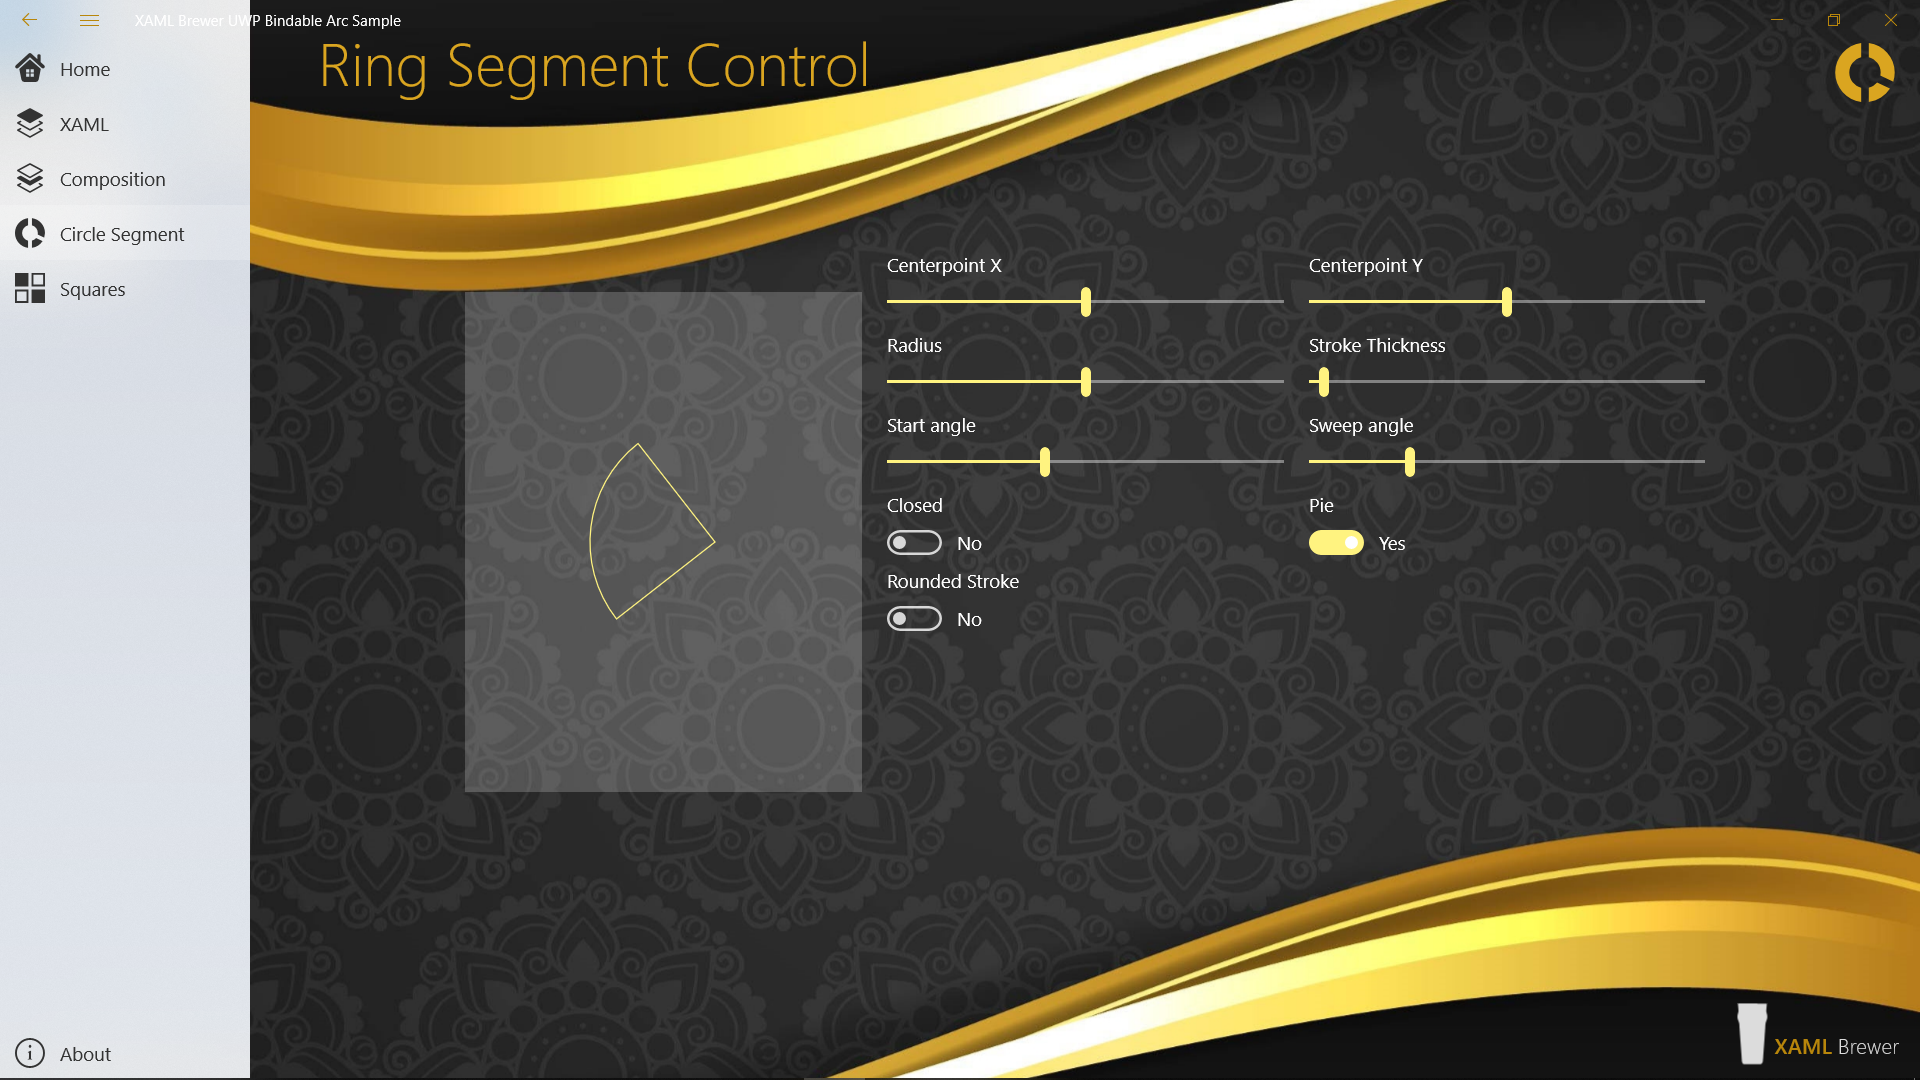
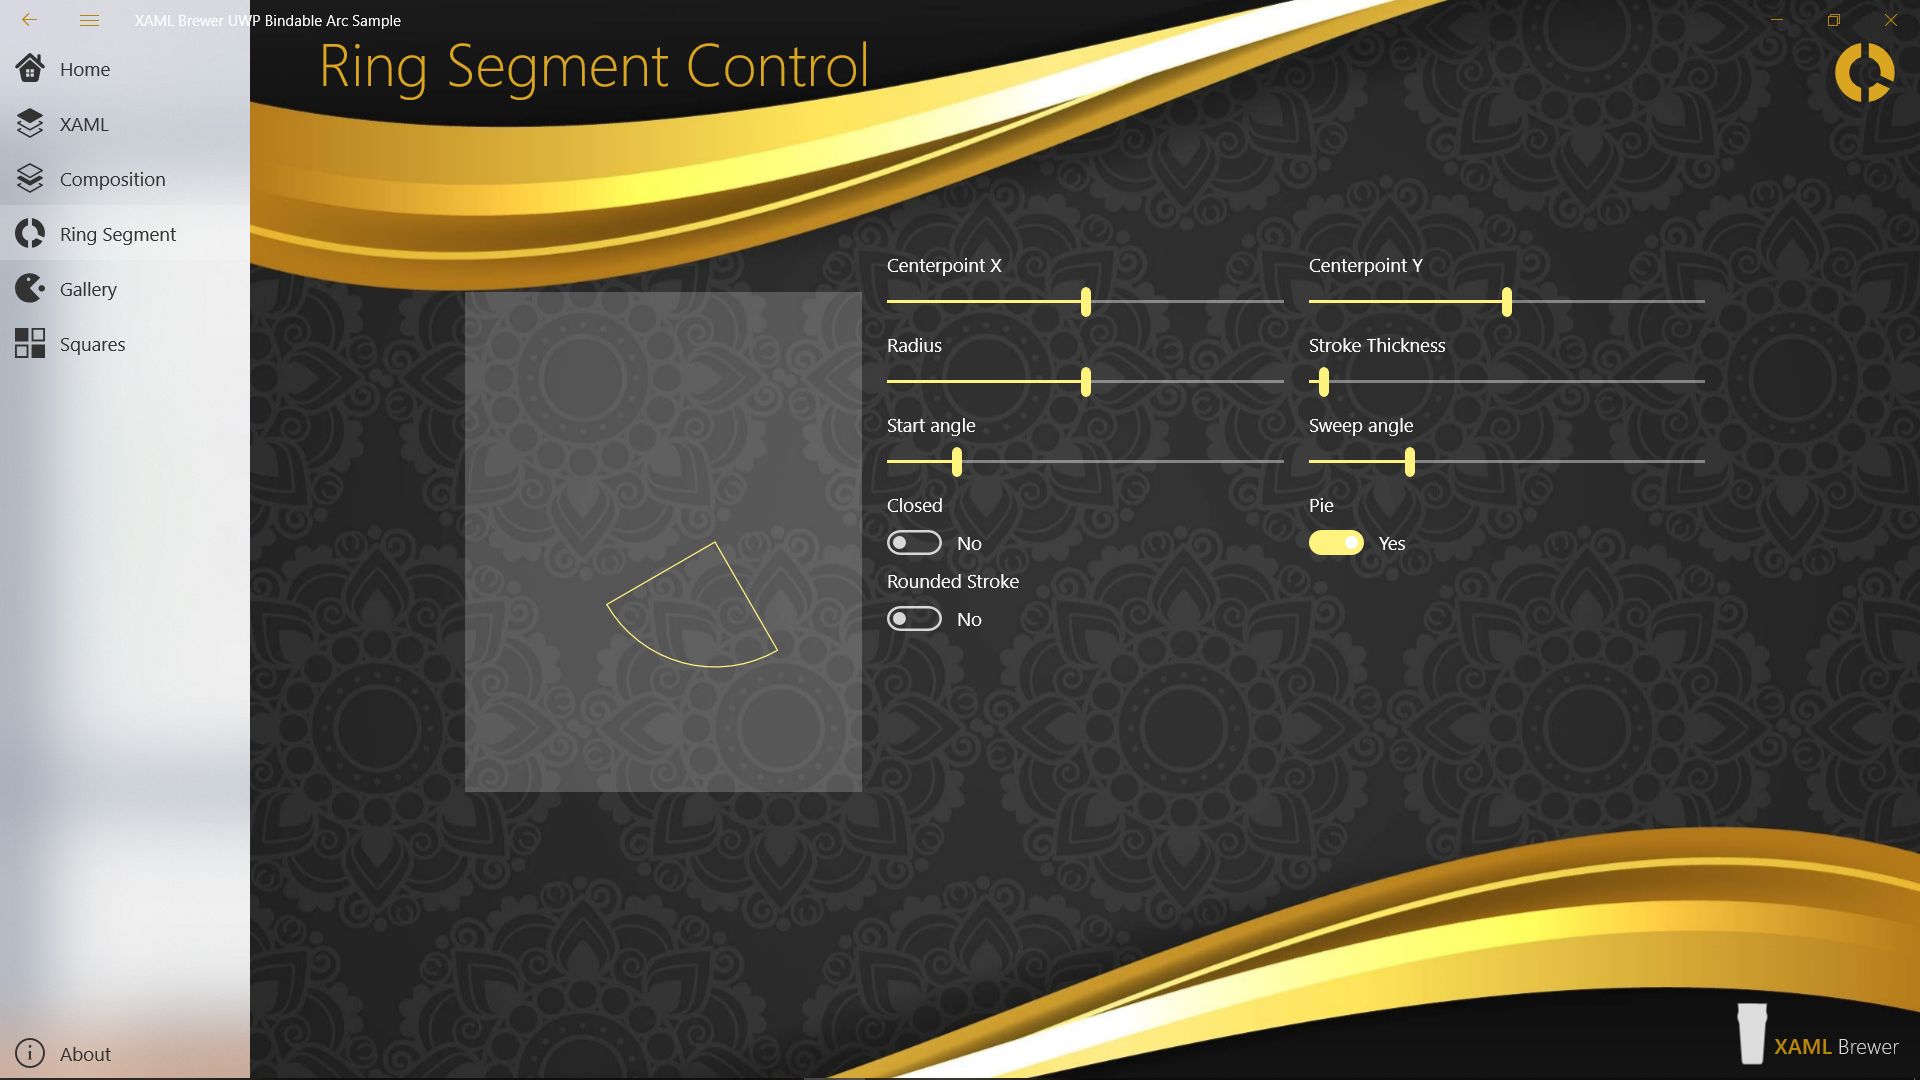
Description and proper credits

Changed region(s): [[0.0, 0.0917, 0.1562, 1.0]]

diff --git a/XamlBrewer.Uwp.ArcPathSample/Views/GalleryPage.xaml b/XamlBrewer.Uwp.ArcPathSample/Views/GalleryPage.xaml
@@ -40,7 +40,7 @@
               Grid.Row="1">
             <Grid.RowDefinitions>
                 <RowDefinition Height="*" />
-                <RowDefinition Height="5*" />
+                <RowDefinition Height="3*" />
                 <RowDefinition Height="*" />
             </Grid.RowDefinitions>
             <Grid.ColumnDefinitions>
@@ -57,86 +57,109 @@
                     <ColumnDefinition Width="*" />
                     <ColumnDefinition Width="*" />
                 </Grid.ColumnDefinitions>
+                <Grid.RowDefinitions>
+                    <RowDefinition Height="auto" />
+                    <RowDefinition Height="*" />
+                </Grid.RowDefinitions>
 
                 <Grid>
+                    <TextBlock FontSize="24"
+                               HorizontalAlignment="Stretch"
+                               HorizontalTextAlignment="Center">Pie Chart</TextBlock>
+                </Grid>
+                <Grid Grid.Row="1">
                     <controls:RingSegment Radius="100"
                                           IsPie="True"
-                                          CenterPointX="200"
-                                          CenterPointY="200"
+                                          CenterPointX="150"
+                                          CenterPointY="150"
                                           StartAngle="-45"
                                           SweepAngle="90"
                                           Fill="Maroon" />
                     <controls:RingSegment Radius="100"
                                           IsPie="True"
-                                          CenterPointX="180"
-                                          CenterPointY="200"
+                                          CenterPointX="130"
+                                          CenterPointY="150"
                                           StartAngle="45"
                                           SweepAngle="270"
                                           Fill="Silver" />
                     <controls:RingSegment Radius="100"
                                           IsPie="True"
-                                          CenterPointX="180"
-                                          CenterPointY="200"
+                                          CenterPointX="130"
+                                          CenterPointY="150"
                                           StartAngle="135"
                                           SweepAngle="90"
                                           Fill="Black" />
                     <controls:RingSegment Radius="100"
                                           IsPie="True"
-                                          CenterPointX="180"
-                                          CenterPointY="200"
+                                          CenterPointX="130"
+                                          CenterPointY="150"
                                           StartAngle="225"
                                           SweepAngle="90"
                                           Fill="RoyalBlue" />
                 </Grid>
+
                 <Grid Grid.Column="1">
+                    <TextBlock FontSize="24"
+                               HorizontalAlignment="Stretch"
+                               HorizontalTextAlignment="Center">Radial Gauge</TextBlock>
+                </Grid>
+                <Grid Grid.Row="1"
+                      Grid.Column="1">
                     <controls:RingSegment Radius="100"
-                                          CenterPointX="200"
-                                          CenterPointY="200"
+                                          CenterPointX="150"
+                                          CenterPointY="150"
                                           StrokeThickness="30"
                                           IsStrokeRounded="True"
                                           StartAngle="135"
                                           SweepAngle="270" />
                     <controls:RingSegment Radius="100"
-                                          CenterPointX="200"
-                                          CenterPointY="200"
+                                          CenterPointX="150"
+                                          CenterPointY="150"
                                           StrokeThickness="28"
                                           IsStrokeRounded="True"
                                           Stroke="Maroon"
                                           StartAngle="135"
                                           SweepAngle="180" />
                 </Grid>
+
                 <Grid Grid.Column="2">
+                    <TextBlock FontSize="24"
+                               HorizontalAlignment="Stretch"
+                               HorizontalTextAlignment="Center">Donut Chart</TextBlock>
+                </Grid>
+                <Grid Grid.Row="1"
+                      Grid.Column="2">
                     <controls:RingSegment Radius="70"
-                                          CenterPointX="200"
-                                          CenterPointY="200"
+                                          CenterPointX="150"
+                                          CenterPointY="150"
                                           Stroke="Maroon"
                                           Fill="Maroon"
                                           StrokeThickness="90"
                                           StartAngle="0"
                                           SweepAngle="120" />
                     <controls:RingSegment Radius="100"
-                                          CenterPointX="200"
-                                          CenterPointY="200"
+                                          CenterPointX="150"
+                                          CenterPointY="150"
                                           StrokeThickness="30"
                                           StartAngle="120"
                                           SweepAngle="120" />
                     <controls:RingSegment Radius="100"
-                                          CenterPointX="200"
-                                          CenterPointY="200"
+                                          CenterPointX="150"
+                                          CenterPointY="150"
                                           StrokeThickness="30"
                                           Stroke="RoyalBlue"
                                           StartAngle="240"
                                           SweepAngle="120" />
                     <controls:RingSegment Radius="70"
-                                          CenterPointX="200"
-                                          CenterPointY="200"
+                                          CenterPointX="150"
+                                          CenterPointY="150"
                                           StrokeThickness="30"
                                           Stroke="Silver"
                                           StartAngle="120"
                                           SweepAngle="180" />
                     <controls:RingSegment Radius="70"
-                                          CenterPointX="200"
-                                          CenterPointY="200"
+                                          CenterPointX="150"
+                                          CenterPointY="150"
                                           StrokeThickness="30"
                                           Stroke="Gold"
                                           StartAngle="300"

diff --git a/XamlBrewer.Uwp.ArcPathSample/Views/AboutPage.xaml b/XamlBrewer.Uwp.ArcPathSample/Views/AboutPage.xaml
@@ -31,7 +31,7 @@
               Width="48"
               Margin="0 0 20 0"
               Stretch="Uniform" />
-        
+
         <Grid Margin="0 0 48 33"
               Grid.Row="1">
             <Grid.RowDefinitions>
@@ -43,18 +43,34 @@
                        Foreground="{StaticResource PageForegroundBrush}"
                        FontSize="20"
                        Grid.Row="1"
-                       Margin="0">
-            <Run>This app shows two ways to draw and change an elliptical arc in UWP: </Run>
-            <LineBreak />
-            <Run>* using {x:Bind} against a XAML ArcSegment, and</Run>
-            <LineBreak />
-            <Run>* {Binding} to a user control hosting Win2D and Composition. </Run>
-            <LineBreak />
-            <LineBreak />
-            <LineBreak />
-            <Run>Background image designed by </Run>
-            <Hyperlink NavigateUri="http://www.freepik.com">Harryarts / Freepik</Hyperlink>
-            <Run>.</Run>
+                       Margin="0"
+                       FontFamily="Segoe UI">
+                <Run>This app shows two ways to draw and change an elliptical arc in UWP: </Run>
+                <LineBreak />
+                <Run>* using {x:Bind} against a XAML ArcSegment, and</Run>
+                <LineBreak />
+                <Run>* {Binding} to a user control hosting Win2D and Composition. </Run>
+                <LineBreak />
+                <LineBreak />
+                <Run>It also demonstrates how to build a user control for circle segments and pie shapes.</Run>
+                <LineBreak />
+                <LineBreak />
+                <LineBreak />
+                <Run>Background image designed by </Run>
+                <Hyperlink NavigateUri="http://www.freepik.com">Harryarts / Freepik</Hyperlink>
+                <Run>.</Run>
+                <LineBreak />
+                <Run>'above' and 'middle' icons by </Run>
+                <Hyperlink NavigateUri="http://www.thenounproject.com">Tomasz Pasternak from the Noun Project</Hyperlink>
+                <Run>.</Run>
+                <LineBreak />
+                <Run>'donut chart' icon by </Run>
+                <Hyperlink NavigateUri="http://www.thenounproject.com">Gregor Cresnar from the Noun Project</Hyperlink>
+                <Run>.</Run>
+                <LineBreak />
+                <Run>'game' icon by </Run>
+                <Hyperlink NavigateUri="http://www.thenounproject.com">Enshia from the Noun Project</Hyperlink>
+                <Run>.</Run>                
             </TextBlock>
         </Grid>
     </Grid>

diff --git a/XamlBrewer.Uwp.ArcPathSample/Views/HomePage.xaml b/XamlBrewer.Uwp.ArcPathSample/Views/HomePage.xaml
@@ -50,6 +50,9 @@
                 <Run>* using {x:Bind} against a XAML ArcSegment, and</Run>
                 <LineBreak />
                 <Run>* {Binding} to a user control hosting Win2D and Composition. </Run>
+                <LineBreak />
+                <LineBreak />
+                <Run>It also demonstrates how to build a user control for circle segments and pie shapes.</Run>
             </TextBlock>
         </Grid>
     </Grid>

diff --git a/XamlBrewer.Uwp.ArcPathSample/ViewModels/ShellViewModel.cs b/XamlBrewer.Uwp.ArcPathSample/ViewModels/ShellViewModel.cs
@@ -11,7 +11,7 @@ namespace Mvvm
             Menu.Add(new MenuItem() { Glyph = Icon.GetIcon("HomeIcon"), Text = "Home", NavigationDestination = typeof(HomePage) });
             Menu.Add(new MenuItem() { Glyph = Icon.GetIcon("TopLayerIcon"), Text = "XAML", NavigationDestination = typeof(ArcSegmentPage) });
             Menu.Add(new MenuItem() { Glyph = Icon.GetIcon("MiddleLayerIcon"), Text = "Composition", NavigationDestination = typeof(Win2DPage) });
-            Menu.Add(new MenuItem() { Glyph = Icon.GetIcon("DonutIcon"), Text = "Circle Segment", NavigationDestination = typeof(CircleSegmentPage) });
+            Menu.Add(new MenuItem() { Glyph = Icon.GetIcon("DonutIcon"), Text = "Ring Segment", NavigationDestination = typeof(CircleSegmentPage) });
             Menu.Add(new MenuItem() { Glyph = Icon.GetIcon("PacmanIcon"), Text = "Gallery", NavigationDestination = typeof(GalleryPage) });
             Menu.Add(new MenuItem() { Glyph = Icon.GetIcon("SquaresIcon"), Text = "Squares", NavigationDestination = typeof(SquaresPage) });
             SecondMenu.Add(new MenuItem() { Glyph = Icon.GetIcon("InfoIcon"), Text = "About", NavigationDestination = typeof(AboutPage) });
